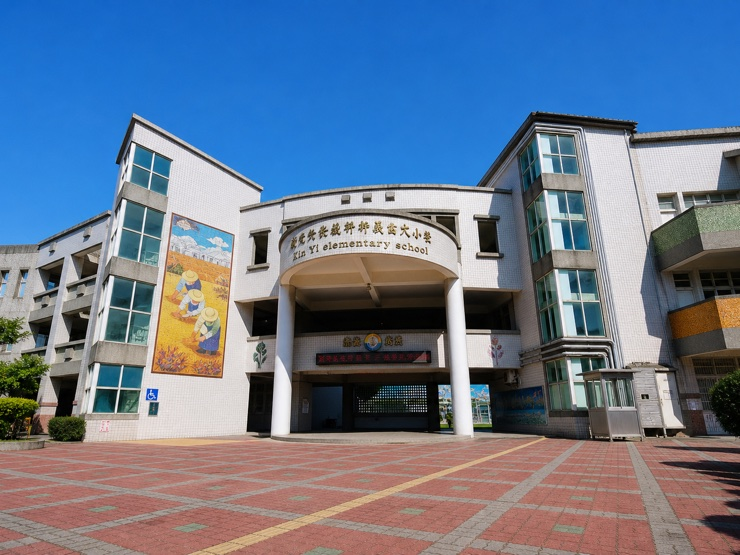
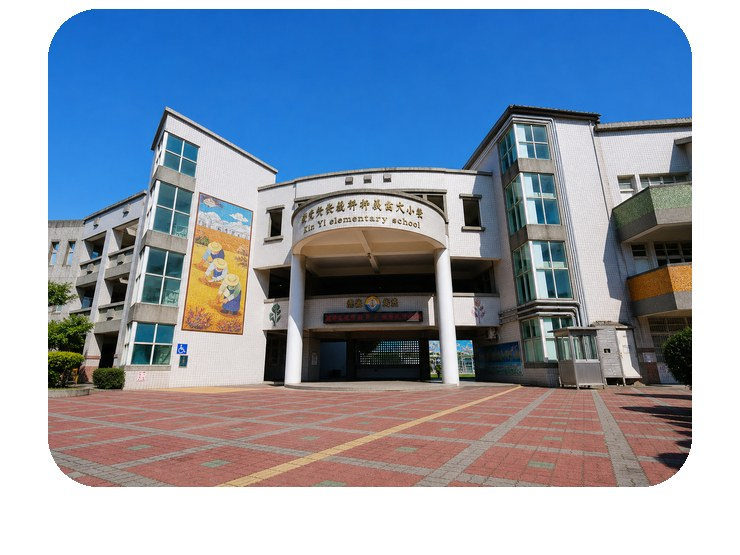
Guanyu hub card: use white Polaroid frame to match Fuxing row
Reprocessed assets/images/schools/guanyu.jpg to the standard framed card
spec (740x555 white canvas, 644x478 rounded inner box r=50) instead of
edge-to-edge full-bleed, so it matches its Fuxing-township siblings
(fusing-jh / rihsin / yongfeng / yushin) which all use the framed look.

diff --git a/schools/index.html b/schools/index.html
@@ -358,7 +358,7 @@
     <span class="badge jh">JHS</span>
   </div>
 </a><a class="hub-school-card" href="https://changhua-bilingual.org/schools/guanyu/" target="_blank" rel="noopener" data-search="Guanyu 管嶼國小 Fuxing Township 福興鄉 guanyu">
-  <img class="photo" src="/assets/images/schools/guanyu.jpg?v=1782707488" alt="Guanyu" loading="lazy">
+  <img class="photo" src="/assets/images/schools/guanyu.jpg?v=1782707860" alt="Guanyu" loading="lazy">
   <div class="body">
     <p class="name">Guanyu</p>
     <p class="zh">管嶼國小</p>
